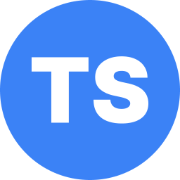
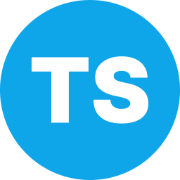
feat: change accent color, add turn class <input> into <select>

diff --git a/src/App.jsx b/src/App.jsx
@@ -11,11 +11,11 @@ import { ToastContainer } from "react-toastify"
 import "react-toastify/dist/ReactToastify.css"
 import { classAdded, classNotAdded } from "./toastify"
 
-function App() {
+export default function App() {
   const [classes, setClasses] = useLocalStorage("TS_CLASSES", [])
   const [hour, setHour] = useLocalStorage("TS_HOUR", 30)
 
-  const [name, setName] = useState("")
+  const [name, setName] = useState("Essentials 1")
   const [quantity, setQuantity] = useState(0)
   const [duration, setDuration] = useState(0)
 
@@ -38,6 +38,12 @@ function App() {
     setClasses(newArray)
   }
 
+  const handleInputChange = (e, func) => {
+    const value = +e.target.value
+    if (isNaN(value)) func(0)
+    else func(value)
+  }
+
   return (
     <>
       <Header />
@@ -49,8 +55,8 @@ function App() {
           quantity={quantity}
           duration={duration}
           setName={(e) => setName(e.target.value)}
-          setQuantity={(e) => setQuantity(+e.target.value)}
-          setDuration={(e) => setDuration(+e.target.value)}
+          setQuantity={(e) => handleInputChange(e, setQuantity)}
+          setDuration={(e) => handleInputChange(e, setDuration)}
           handleSubmit={addClass}
         />
 
@@ -60,5 +66,3 @@ function App() {
     </>
   )
 }
-
-export default App

diff --git a/src/components/AddClass.jsx b/src/components/AddClass.jsx
@@ -1,8 +1,9 @@
 import Input from "./Input"
 import Title from "./Title"
 import AddClassBtn from "./AddClassBtn"
+import SelectClass from "./SelectClass"
 
-function AddClass({
+export default function AddClass({
   name,
   quantity,
   duration,
@@ -16,20 +17,13 @@ function AddClass({
       <Title title="Adicionar aula" />
 
       <form onSubmit={handleSubmit} className="flex flex-col flex-wrap gap-4">
-        <Input
-          label="Turma:"
-          placeholder="Progression 2"
-          id="class-label"
-          value={name}
-          onChange={setName}
-        />
+        <SelectClass name={name} setName={setName} />
         <Input
           label="Duração (min):"
           placeholder="Progression 2"
           id="class-duration"
           value={duration}
           onChange={setDuration}
-          type="number"
         />
         <Input
           label="Quantidade de Aulas:"
@@ -37,12 +31,9 @@ function AddClass({
           id="class-quantity"
           value={quantity}
           onChange={setQuantity}
-          type="number"
         />
         <AddClassBtn />
       </form>
     </div>
   )
 }
-
-export default AddClass

diff --git a/src/components/Class.jsx b/src/components/Class.jsx
@@ -1,18 +1,18 @@
 import { RxCross2 } from "react-icons/rx"
 
-function Class({ name, duration, quantity, removeClass }) {
+export default function Class({ name, duration, quantity, removeClass }) {
   return (
-    <div className="flex justify-between items-center gap-4 bg-blue-50 p-3 rounded">
-      <span className="capitalize font-medium">{name}</span>
-      <span>
+    <div className="flex justify-between items-center gap-4 bg-sky-50 p-3 rounded">
+      <span className="capitalize font-semibold text-sky-500 sm:w-24">
+        {name}
+      </span>
+      <span className=" sm:w-24">
         {duration}m x {quantity}
       </span>
-      <span>{duration * quantity}m</span>
+      <span className=" sm:w-24">{duration * quantity}m</span>
       <button onClick={removeClass}>
         <RxCross2 className="text-red-500" size={20} />
       </button>
     </div>
   )
 }
-
-export default Class

diff --git a/index.html b/index.html
@@ -1,14 +1,14 @@
 <!DOCTYPE html>
-<html lang="pt-br">
+<html lang="pt-BR">
   <head>
     <meta charset="UTF-8" />
     <meta name="viewport" content="width=device-width, initial-scale=1.0" />
-    <title>Teacher's Salary</title>
+    <title>Teachers' Salary</title>
     <link rel="apple-touch-icon" href="/apple-touch-icon.png" />
     <link rel="icon" href="/favicon-32x32.png" type="image/png" sizes="32x32" />
     <link rel="icon" href="/favicon-16x16.png" type="image/png" sizes="16x16" />
     <link rel="manifest" href="/site.webmanifest" />
-    <meta name="theme-color" content="#3B82F6" />
+    <meta name="theme-color" content="#0ea5e9" />
     <link rel="preconnect" href="https://fonts.googleapis.com" />
     <link rel="preconnect" href="https://fonts.gstatic.com" crossorigin />
     <link

diff --git a/src/components/AddClassBtn.jsx b/src/components/AddClassBtn.jsx
@@ -1,17 +1,15 @@
 import { RxPlusCircled } from "react-icons/rx"
 
 const hoverClasses =
-  "hover:scale-105 hover:bg-slate-50 hover:text-blue-500 hover:ring-2 hover:ring-blue-500"
+  "hover:scale-105 hover:bg-slate-50 hover:text-sky-500 hover:ring-2 hover:ring-sky-500"
 
-function AddClassBtn() {
+export default function AddClassBtn() {
   return (
     <button
-      className={`flex center font-semibold gap-2 bg-blue-500 text-white rounded py-2 px-8 transition ${hoverClasses}`}
+      className={`flex center font-semibold gap-2 bg-sky-500 text-white rounded py-2 px-8 transition ${hoverClasses}`}
     >
       <RxPlusCircled size={28} />
       <span>Adicionar</span>
     </button>
   )
 }
-
-export default AddClassBtn

diff --git a/src/components/Classes.jsx b/src/components/Classes.jsx
@@ -1,7 +1,7 @@
 import Class from "./Class"
 import Title from "./Title"
 
-function Classes({ classes, hour, removeClass }) {
+export default function Classes({ classes, hour, removeClass }) {
   const TOTAL = classes.reduce(
     (acc, { duration, quantity }) => acc + duration * quantity,
     0
@@ -29,11 +29,9 @@ function Classes({ classes, hour, removeClass }) {
         Total: {TOTAL}m = {TOTAL_HOURS.toFixed(2)}h
       </p>
 
-      <p className="text-xl font-bold text-green-600 self-end">
-        Salário: R${SALARY}
+      <p className="text-xl font-bold self-end">
+        Salário: <span className="text-green-600">R${SALARY}</span>
       </p>
     </section>
   )
 }
-
-export default Classes

diff --git a/src/components/Input.jsx b/src/components/Input.jsx
@@ -1,4 +1,4 @@
-function Input({ label, id, placeholder, value, onChange, type = "text" }) {
+export default function Input({ label, id, placeholder, value, onChange }) {
   return (
     <div className="flex flex-col gap-2">
       <label className="input-label" htmlFor={id}>
@@ -6,7 +6,6 @@ function Input({ label, id, placeholder, value, onChange, type = "text" }) {
       </label>
       <input
         id={id}
-        type={type}
         placeholder={placeholder}
         className="input"
         value={value}
@@ -15,5 +14,3 @@ function Input({ label, id, placeholder, value, onChange, type = "text" }) {
     </div>
   )
 }
-
-export default Input

diff --git a/src/components/Header.jsx b/src/components/Header.jsx
@@ -1,11 +1,9 @@
 /* eslint-disable react/no-unescaped-entities */
-function Header() {
+export default function Header() {
   return (
-    <header className="flex flex-col gap-2 p-4 bg-slate-800 mb-4">
-      <h1 className="text-2xl text-blue-300 font-bold">Teacher's Salary</h1>
-      <p className="text-slate-300 italic">Calcula teu salário Julinhaaaa</p>
+    <header className="flex flex-col items-center gap-2 p-4 bg-slate-800 mb-4">
+      <h1 className="text-2xl text-sky-300 font-bold">Teachers' Salary</h1>
+      <p className="text-slate-300 italic">Calcula teu salário Juliaaa</p>
     </header>
   )
 }
-
-export default Header

diff --git a/src/components/SelectClass.jsx b/src/components/SelectClass.jsx
@@ -1,0 +1,24 @@
+import classes from "../data/classes.json"
+
+export default function SelectClass({ name, setName }) {
+  return (
+    <>
+      <label htmlFor="cna-classes" className="input-label">
+        Turma:
+      </label>
+      <select
+        value={name}
+        onChange={setName}
+        className="select"
+        name="cna-classes"
+        id="cna-classes"
+      >
+        {classes.map((item) => (
+          <option key={item} value={item}>
+            {item}
+          </option>
+        ))}
+      </select>
+    </>
+  )
+}

diff --git a/src/index.css b/src/index.css
@@ -14,8 +14,9 @@
   @apply justify-center items-center;
 }
 
-.input {
-  @apply p-2 bg-transparent border-b-2 border-blue-500 rounded shadow-md outline-none focus:border-none focus:ring-2 focus:ring-blue-500;
+.input,
+.select {
+  @apply p-2 bg-transparent border-b-2 border-sky-500 rounded shadow-md outline-none focus:border-none focus:ring-2 focus:ring-sky-500;
 }
 
 .input-label {

diff --git a/src/components/Title.jsx b/src/components/Title.jsx
@@ -1,9 +1,7 @@
-function Title({ title }) {
+export default function Title({ title }) {
   return (
-    <h2 className="text-xl mb-4 font-bold border-b border-blue-300 border-dashed py-2">
+    <h2 className="text-xl mb-4 font-bold border-b-2 border-sky-300 border-dotted py-2">
       {title}
     </h2>
   )
 }
-
-export default Title

diff --git a/src/components/Hour.jsx b/src/components/Hour.jsx
@@ -1,4 +1,4 @@
-function Hour({ hour, setHour }) {
+export default function Hour({ hour, setHour }) {
   return (
     <div className="flex flex-col gap-2">
       <label className="input-label" htmlFor="hour">
@@ -8,5 +8,3 @@ function Hour({ hour, setHour }) {
     </div>
   )
 }
-
-export default Hour
